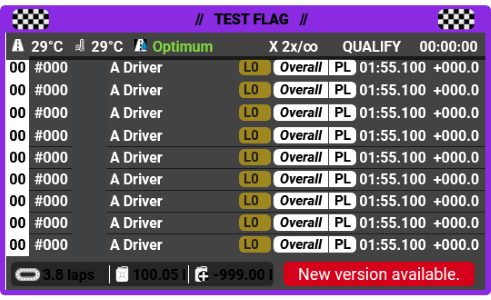
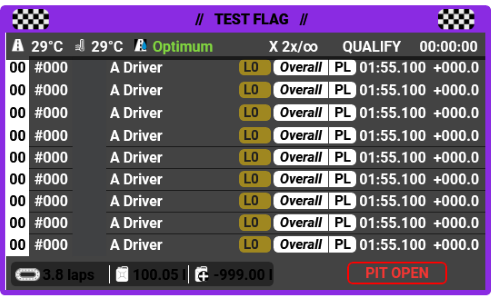
PIT OPEN bordered, version to 1.1.0-aplha

Changed region(s): [[0.5499, 0.87, 0.9776, 0.96]]

diff --git a/MkStrike - standings/JavascriptExtensions/mkstrike-base.js b/MkStrike - standings/JavascriptExtensions/mkstrike-base.js
@@ -1,5 +1,5 @@
 function mk_getActualVersion() {
-    return '1.1.0';
+    return '1.1.0-alpha';
 }
 
 function mk_getBranchName() {
